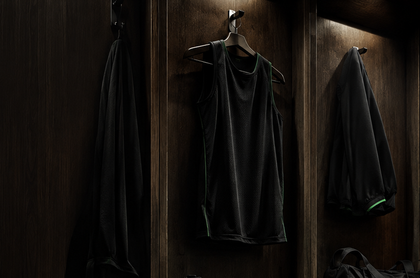
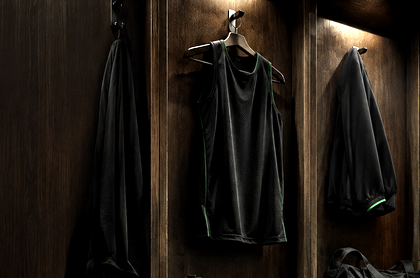
Sprint 4: revert hero to cover mode, brighten dark grid card images

diff --git a/app/(tabs)/index.tsx b/app/(tabs)/index.tsx
@@ -621,8 +621,8 @@ export default function HomeScreen() {
             <Image
               pointerEvents="none"
               source={Assets.backgrounds.heroNight}
-              style={StyleSheet.absoluteFill}
-              resizeMode="contain"
+              style={{ position: 'absolute', top: 0, bottom: 0, right: 0, aspectRatio: 700 / 394 }}
+              resizeMode="cover"
             />
             <LinearGradient
               pointerEvents="none"
